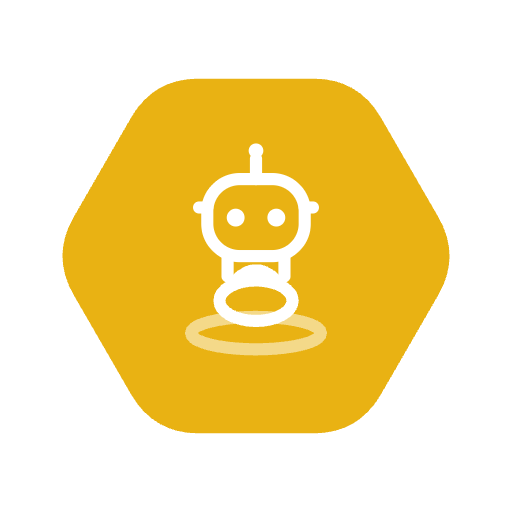
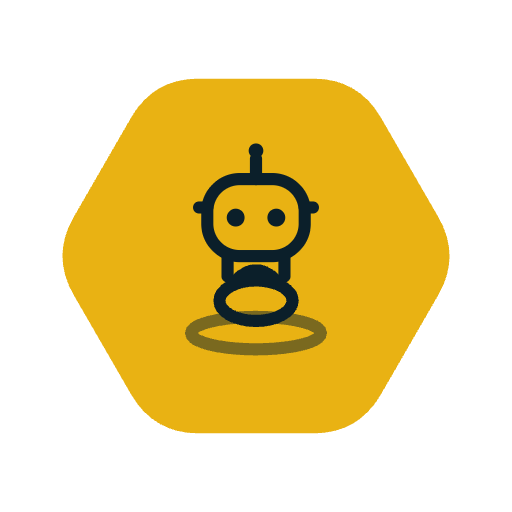
Recolor Guest/Bot identicons to navy on the gold floor
White read too harsh/glaring against team B's gold (bot's always B,
guest sometimes is) — navy there instead now, tinted at runtime off
the same base mark so team A's blue floor keeps its white icon
unchanged. Regenerated the two gold-background ticket hex assets to
match.

Changed region(s): [[0.3438, 0.2812, 0.6562, 0.7188]]

diff --git a/src/game.js b/src/game.js
@@ -6,7 +6,7 @@
 // still resolve when the app is served from a subpath, e.g. GitHub Pages at
 // https://danyx11.github.io/NIM-Ball/.
 import { audio } from './audio.js';
-import { getIdenticonCanvasStoneBust, getIdenticonPngDataUrl, getIdenticonBgColor, getStaticMarkImage, getStaticMarkPngDataUrl } from './identicons.js';
+import { getIdenticonCanvasStoneBust, getIdenticonPngDataUrl, getIdenticonBgColor, getTintedMarkCanvas, getStaticMarkPngDataUrl } from './identicons.js';
 import { COLORS } from './colors.js';
 import { computeAiShots, DEFAULT_AI_CONFIG } from './ai.js';
 import { isBasicLaser } from './settings.js';
@@ -296,7 +296,7 @@ export function startGame(opts = {}) {
     return address.length <= 8 ? address : `${address.slice(0, 3)}…${address.slice(-3)}`;
   }
   // Guest/Bot detection for the static-mark identicon swap (see
-  // identicons.js's getStaticMarkImage/getStaticMarkPngDataUrl) — isBot is
+  // identicons.js's getTintedMarkCanvas/getStaticMarkPngDataUrl) — isBot is
   // just `team === aiTeam` (aiTeam is always 'B', see main.js), isGuest
   // reuses the exact "Guest " prefix convention ticket.js's own
   // resolveTeamDisplay already relies on (IDENTICON_LABEL is only ever
@@ -307,6 +307,12 @@ export function startGame(opts = {}) {
   function isGuestTeam(team) { return !isBotTeam(team) && (IDENTICON_LABEL[team] || '').startsWith('Guest'); }
   function staticMarkKind(team) { return isBotTeam(team) ? 'bot' : isGuestTeam(team) ? 'guest' : null; }
   function teamAccentColor(team) { return team === 'A' ? COLORS.teamA : COLORS.teamB; }
+  // Solid white on team B's gold floor read too harsh/glaring (see
+  // conversation) — navy there instead, still plain white on team A's blue
+  // floor where the contrast was already fine. Only ever applies to the
+  // static Guest/Bot marks above (a real per-address identicon keeps its
+  // own colors, untouched).
+  function staticMarkIconColor(team) { return team === 'B' ? COLORS.bgDeep : '#ffffff'; }
   function identityLabelFor(team) {
     if (IDENTICON_LABEL[team]) return IDENTICON_LABEL[team];
     if (isBotTeam(team)) return 'AI';
@@ -620,9 +626,9 @@ export function startGame(opts = {}) {
   for (const team of ['A', 'B']) {
     const markKind = staticMarkKind(team);
     if (markKind) {
-      getStaticMarkImage(markKind).then((img) => {
+      getTintedMarkCanvas(markKind, staticMarkIconColor(team)).then((canvas) => {
         identiconBgColors[team] = teamAccentColor(team);
-        identiconSources[team] = mirrorForTeamB(team, img);
+        identiconSources[team] = mirrorForTeamB(team, canvas);
         tryBakeBubble(team);
       });
     } else {
@@ -2526,7 +2532,7 @@ export function startGame(opts = {}) {
   Promise.all(['A', 'B'].map((team) => {
     const markKind = staticMarkKind(team);
     return markKind
-      ? getStaticMarkPngDataUrl(markKind, teamAccentColor(team), 128)
+      ? getStaticMarkPngDataUrl(markKind, teamAccentColor(team), staticMarkIconColor(team), 128)
       : getIdenticonPngDataUrl(IDENTICON_ADDRESS[team], 128);
   })).then(([a, b]) => { chatAvatarUrl.A = a; chatAvatarUrl.B = b; });
   // Two independent native scrollbars (chatFeedB starts +32px lower than
@@ -4172,7 +4178,7 @@ export function startGame(opts = {}) {
   function fillResultIdenticon(team) {
     const markKind = staticMarkKind(team);
     const urlPromise = markKind
-      ? getStaticMarkPngDataUrl(markKind, teamAccentColor(team), RESULT_IDENTICON_SIZE)
+      ? getStaticMarkPngDataUrl(markKind, teamAccentColor(team), staticMarkIconColor(team), RESULT_IDENTICON_SIZE)
       : getIdenticonPngDataUrl(IDENTICON_ADDRESS[team], RESULT_IDENTICON_SIZE);
     urlPromise.then((url) => {
       const img = document.getElementById('goalIdenticonImg');

diff --git a/src/identicons.js b/src/identicons.js
@@ -65,14 +65,31 @@ export function getStaticMarkImage(kind) {
   return staticMarkCache.get(kind);
 }
 
-export async function getStaticMarkPngDataUrl(kind, bgColor, size = 512) {
+// The baked mark art is plain white — solid white on the gold floor read too
+// harsh/glaring (see conversation), so every consumer recolors it per the
+// floor it's about to sit on instead (navy on gold, left white on blue).
+// `source-in` swaps the icon's own color while keeping its alpha shape,
+// same trick used elsewhere for recoloring flat art.
+export async function getTintedMarkCanvas(kind, color, size = 512) {
   const img = await getStaticMarkImage(kind);
+  const canvas = document.createElement('canvas');
+  canvas.width = size; canvas.height = size;
+  const ctx = canvas.getContext('2d');
+  ctx.drawImage(img, 0, 0, size, size);
+  ctx.globalCompositeOperation = 'source-in';
+  ctx.fillStyle = color;
+  ctx.fillRect(0, 0, size, size);
+  return canvas;
+}
+
+export async function getStaticMarkPngDataUrl(kind, bgColor, iconColor, size = 512) {
+  const mark = await getTintedMarkCanvas(kind, iconColor, size);
   const canvas = document.createElement('canvas');
   canvas.width = size; canvas.height = size;
   const ctx = canvas.getContext('2d');
   ctx.fillStyle = bgColor;
   ctx.fillRect(0, 0, size, size);
-  ctx.drawImage(img, 0, 0, size, size);
+  ctx.drawImage(mark, 0, 0, size, size);
   return canvas.toDataURL('image/png');
 }
 
